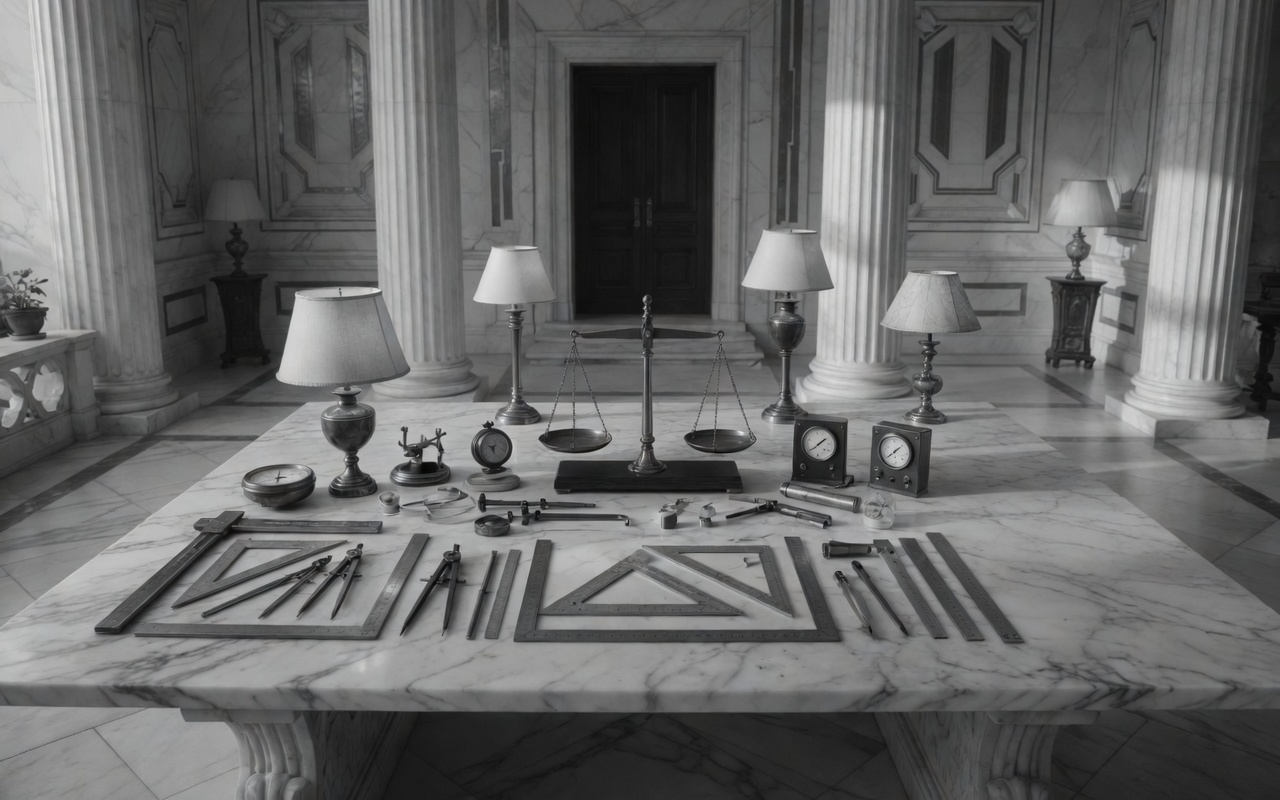
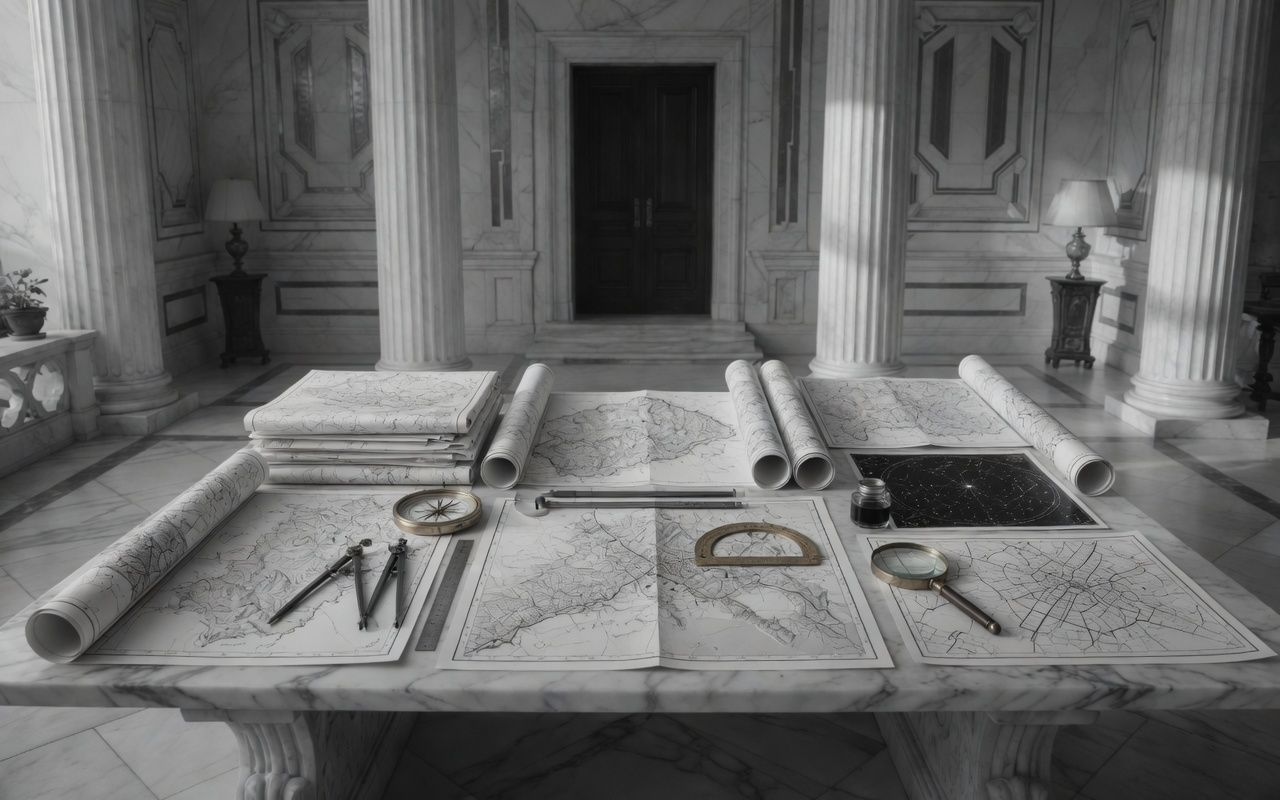
Restyle landing stills as a map table and a chemical lab.
Keep the Greco-futurist marble hall for Knowledge Mapping and
Knowledge Verification, with rolled maps plus cartography tools on one
desk and bottles plus testing instruments on the other.

Changed region(s): [[0.0, 0.2812, 1.0, 0.8438]]

diff --git a/lib/marketing/platform.ts b/lib/marketing/platform.ts
@@ -41,7 +41,7 @@ export const PLATFORM_PRODUCTS = {
     cta: "Explore Knowledge Verification",
     pricingHref: VERIFICATION_PRICING_PATH,
     image: "/lp-boxes/verification-region-map.jpg",
-    imageAlt: "Abstract knowledge map: overlapping circular regions, clustered dots, and bronze metadata plaques on dark marble",
+    imageAlt: "Greco-futurist marble table set as a chemical lab with bottles, test tubes, and testing instruments",
   },
   tapbench: {
     eyebrow: "FOR SCIENCE",
@@ -51,7 +51,7 @@ export const PLATFORM_PRODUCTS = {
     href: TAPBENCH_PATH,
     cta: "Explore TAPBench",
     image: "/lp-boxes/tapbench-ranking-desk.jpg",
-    imageAlt: "Greco-futurist marble measurement desk with brass instruments, gauges, and drafting tools",
+    imageAlt: "Greco-futurist marble table covered with rolled and unfolded maps, a star chart, and cartography tools",
   },
 } as const;
 
